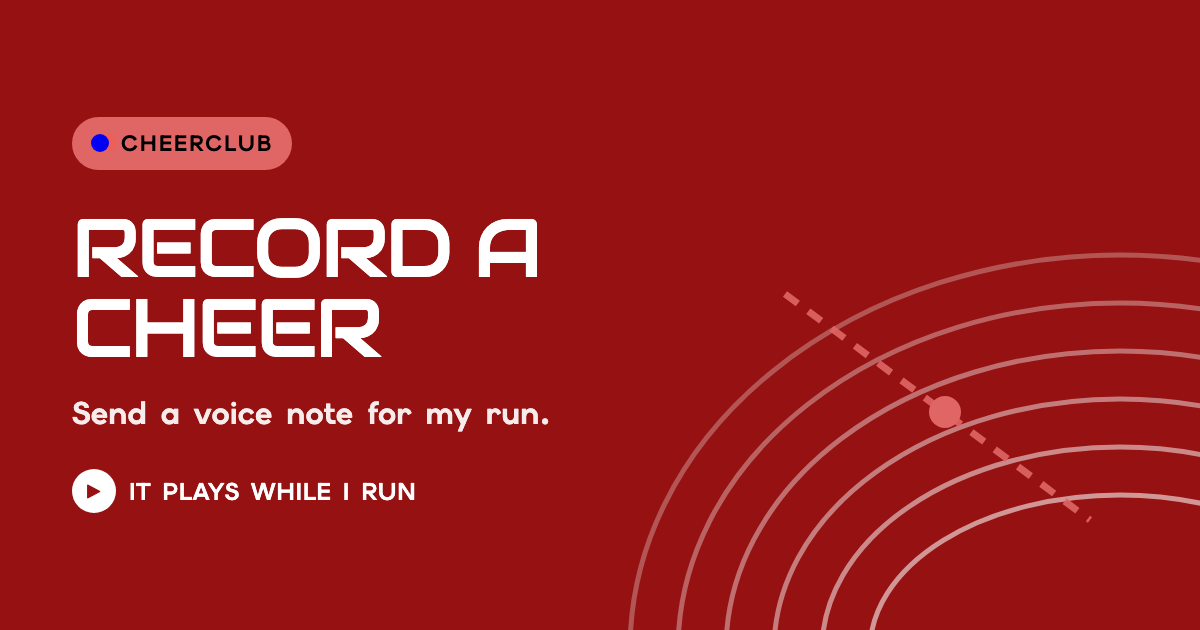
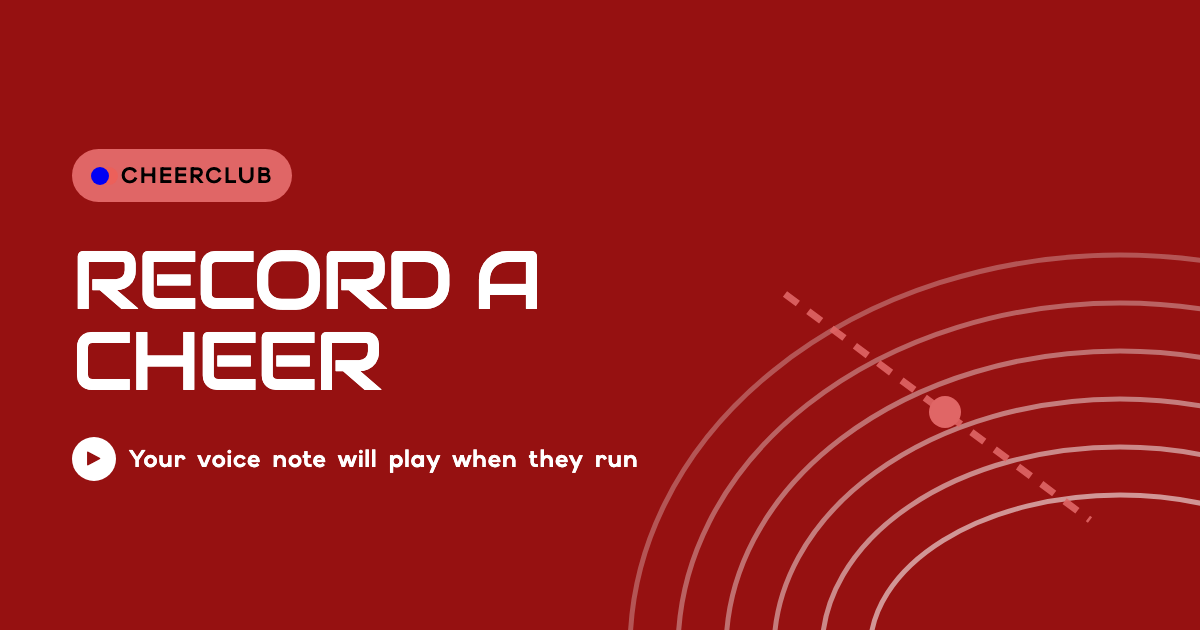
Update cheer invitation previews

Changed region(s): [[0.0617, 0.181, 0.5242, 0.8143]]

diff --git a/share/confetti.html b/share/confetti.html
@@ -3,10 +3,10 @@
 <head>
   <meta charset="utf-8" />
   <meta name="viewport" content="width=device-width, initial-scale=1" />
-  <title>Cheer for my run</title>
+  <title>CheerClub - Fuel Your Run</title>
   <meta property="og:site_name" content="CheerClub" />
-  <meta property="og:title" content="Cheer for my run" />
-  <meta property="og:description" content="Send a voice note — it plays in my ears while I run" />
+  <meta property="og:title" content="CheerClub - Fuel Your Run" />
+  <meta property="og:description" content="Your voice note will play when they run" />
   <meta property="og:type" content="website" />
   <meta property="og:image" content="https://cheerclub.app/og/confetti.png?v=7" />
   <meta property="og:image:width" content="1200" />

diff --git a/share/marathon.html b/share/marathon.html
@@ -3,10 +3,10 @@
 <head>
   <meta charset="utf-8" />
   <meta name="viewport" content="width=device-width, initial-scale=1" />
-  <title>Cheer for my run</title>
+  <title>CheerClub - Fuel Your Run</title>
   <meta property="og:site_name" content="CheerClub" />
-  <meta property="og:title" content="Cheer for my run" />
-  <meta property="og:description" content="Send a voice note — it plays in my ears while I run" />
+  <meta property="og:title" content="CheerClub - Fuel Your Run" />
+  <meta property="og:description" content="Your voice note will play when they run" />
   <meta property="og:type" content="website" />
   <meta property="og:image" content="https://cheerclub.app/og/marathon.png?v=7" />
   <meta property="og:image:width" content="1200" />

diff --git a/share/midnight.html b/share/midnight.html
@@ -3,10 +3,10 @@
 <head>
   <meta charset="utf-8" />
   <meta name="viewport" content="width=device-width, initial-scale=1" />
-  <title>Cheer for my run</title>
+  <title>CheerClub - Fuel Your Run</title>
   <meta property="og:site_name" content="CheerClub" />
-  <meta property="og:title" content="Cheer for my run" />
-  <meta property="og:description" content="Send a voice note — it plays in my ears while I run" />
+  <meta property="og:title" content="CheerClub - Fuel Your Run" />
+  <meta property="og:description" content="Your voice note will play when they run" />
   <meta property="og:type" content="website" />
   <meta property="og:image" content="https://cheerclub.app/og/midnight.png?v=7" />
   <meta property="og:image:width" content="1200" />

diff --git a/share/raceday.html b/share/raceday.html
@@ -3,10 +3,10 @@
 <head>
   <meta charset="utf-8" />
   <meta name="viewport" content="width=device-width, initial-scale=1" />
-  <title>Cheer for my run</title>
+  <title>CheerClub - Fuel Your Run</title>
   <meta property="og:site_name" content="CheerClub" />
-  <meta property="og:title" content="Cheer for my run" />
-  <meta property="og:description" content="Send a voice note — it plays in my ears while I run" />
+  <meta property="og:title" content="CheerClub - Fuel Your Run" />
+  <meta property="og:description" content="Your voice note will play when they run" />
   <meta property="og:type" content="website" />
   <meta property="og:image" content="https://cheerclub.app/og/raceday.png?v=7" />
   <meta property="og:image:width" content="1200" />

diff --git a/share/streets.html b/share/streets.html
@@ -3,10 +3,10 @@
 <head>
   <meta charset="utf-8" />
   <meta name="viewport" content="width=device-width, initial-scale=1" />
-  <title>Cheer for my run</title>
+  <title>CheerClub - Fuel Your Run</title>
   <meta property="og:site_name" content="CheerClub" />
-  <meta property="og:title" content="Cheer for my run" />
-  <meta property="og:description" content="Send a voice note — it plays in my ears while I run" />
+  <meta property="og:title" content="CheerClub - Fuel Your Run" />
+  <meta property="og:description" content="Your voice note will play when they run" />
   <meta property="og:type" content="website" />
   <meta property="og:image" content="https://cheerclub.app/og/streets.png?v=7" />
   <meta property="og:image:width" content="1200" />

diff --git a/share/sunset.html b/share/sunset.html
@@ -3,10 +3,10 @@
 <head>
   <meta charset="utf-8" />
   <meta name="viewport" content="width=device-width, initial-scale=1" />
-  <title>Cheer for my run</title>
+  <title>CheerClub - Fuel Your Run</title>
   <meta property="og:site_name" content="CheerClub" />
-  <meta property="og:title" content="Cheer for my run" />
-  <meta property="og:description" content="Send a voice note — it plays in my ears while I run" />
+  <meta property="og:title" content="CheerClub - Fuel Your Run" />
+  <meta property="og:description" content="Your voice note will play when they run" />
   <meta property="og:type" content="website" />
   <meta property="og:image" content="https://cheerclub.app/og/sunset.png?v=7" />
   <meta property="og:image:width" content="1200" />

diff --git a/share/tempo.html b/share/tempo.html
@@ -3,10 +3,10 @@
 <head>
   <meta charset="utf-8" />
   <meta name="viewport" content="width=device-width, initial-scale=1" />
-  <title>Cheer for my run</title>
+  <title>CheerClub - Fuel Your Run</title>
   <meta property="og:site_name" content="CheerClub" />
-  <meta property="og:title" content="Cheer for my run" />
-  <meta property="og:description" content="Send a voice note — it plays in my ears while I run" />
+  <meta property="og:title" content="CheerClub - Fuel Your Run" />
+  <meta property="og:description" content="Your voice note will play when they run" />
   <meta property="og:type" content="website" />
   <meta property="og:image" content="https://cheerclub.app/og/tempo.png?v=7" />
   <meta property="og:image:width" content="1200" />

diff --git a/share/track.html b/share/track.html
@@ -3,10 +3,10 @@
 <head>
   <meta charset="utf-8" />
   <meta name="viewport" content="width=device-width, initial-scale=1" />
-  <title>Cheer for my run</title>
+  <title>CheerClub - Fuel Your Run</title>
   <meta property="og:site_name" content="CheerClub" />
-  <meta property="og:title" content="Cheer for my run" />
-  <meta property="og:description" content="Send a voice note — it plays in my ears while I run" />
+  <meta property="og:title" content="CheerClub - Fuel Your Run" />
+  <meta property="og:description" content="Your voice note will play when they run" />
   <meta property="og:type" content="website" />
   <meta property="og:image" content="https://cheerclub.app/og/track.png?v=7" />
   <meta property="og:image:width" content="1200" />

diff --git a/share/trail.html b/share/trail.html
@@ -3,10 +3,10 @@
 <head>
   <meta charset="utf-8" />
   <meta name="viewport" content="width=device-width, initial-scale=1" />
-  <title>Cheer for my run</title>
+  <title>CheerClub - Fuel Your Run</title>
   <meta property="og:site_name" content="CheerClub" />
-  <meta property="og:title" content="Cheer for my run" />
-  <meta property="og:description" content="Send a voice note — it plays in my ears while I run" />
+  <meta property="og:title" content="CheerClub - Fuel Your Run" />
+  <meta property="og:description" content="Your voice note will play when they run" />
   <meta property="og:type" content="website" />
   <meta property="og:image" content="https://cheerclub.app/og/trail.png?v=7" />
   <meta property="og:image:width" content="1200" />

diff --git a/share/city.html b/share/city.html
@@ -3,10 +3,10 @@
 <head>
   <meta charset="utf-8" />
   <meta name="viewport" content="width=device-width, initial-scale=1" />
-  <title>Cheer for my run</title>
+  <title>CheerClub - Fuel Your Run</title>
   <meta property="og:site_name" content="CheerClub" />
-  <meta property="og:title" content="Cheer for my run" />
-  <meta property="og:description" content="Send a voice note — it plays in my ears while I run" />
+  <meta property="og:title" content="CheerClub - Fuel Your Run" />
+  <meta property="og:description" content="Your voice note will play when they run" />
   <meta property="og:type" content="website" />
   <meta property="og:image" content="https://cheerclub.app/og/city.png?v=7" />
   <meta property="og:image:width" content="1200" />

diff --git a/share/dawn.html b/share/dawn.html
@@ -3,10 +3,10 @@
 <head>
   <meta charset="utf-8" />
   <meta name="viewport" content="width=device-width, initial-scale=1" />
-  <title>Cheer for my run</title>
+  <title>CheerClub - Fuel Your Run</title>
   <meta property="og:site_name" content="CheerClub" />
-  <meta property="og:title" content="Cheer for my run" />
-  <meta property="og:description" content="Send a voice note — it plays in my ears while I run" />
+  <meta property="og:title" content="CheerClub - Fuel Your Run" />
+  <meta property="og:description" content="Your voice note will play when they run" />
   <meta property="og:type" content="website" />
   <meta property="og:image" content="https://cheerclub.app/og/dawn.png?v=7" />
   <meta property="og:image:width" content="1200" />

diff --git a/share/park.html b/share/park.html
@@ -3,10 +3,10 @@
 <head>
   <meta charset="utf-8" />
   <meta name="viewport" content="width=device-width, initial-scale=1" />
-  <title>Cheer for my run</title>
+  <title>CheerClub - Fuel Your Run</title>
   <meta property="og:site_name" content="CheerClub" />
-  <meta property="og:title" content="Cheer for my run" />
-  <meta property="og:description" content="Send a voice note — it plays in my ears while I run" />
+  <meta property="og:title" content="CheerClub - Fuel Your Run" />
+  <meta property="og:description" content="Your voice note will play when they run" />
   <meta property="og:type" content="website" />
   <meta property="og:image" content="https://cheerclub.app/og/park.png?v=7" />
   <meta property="og:image:width" content="1200" />
